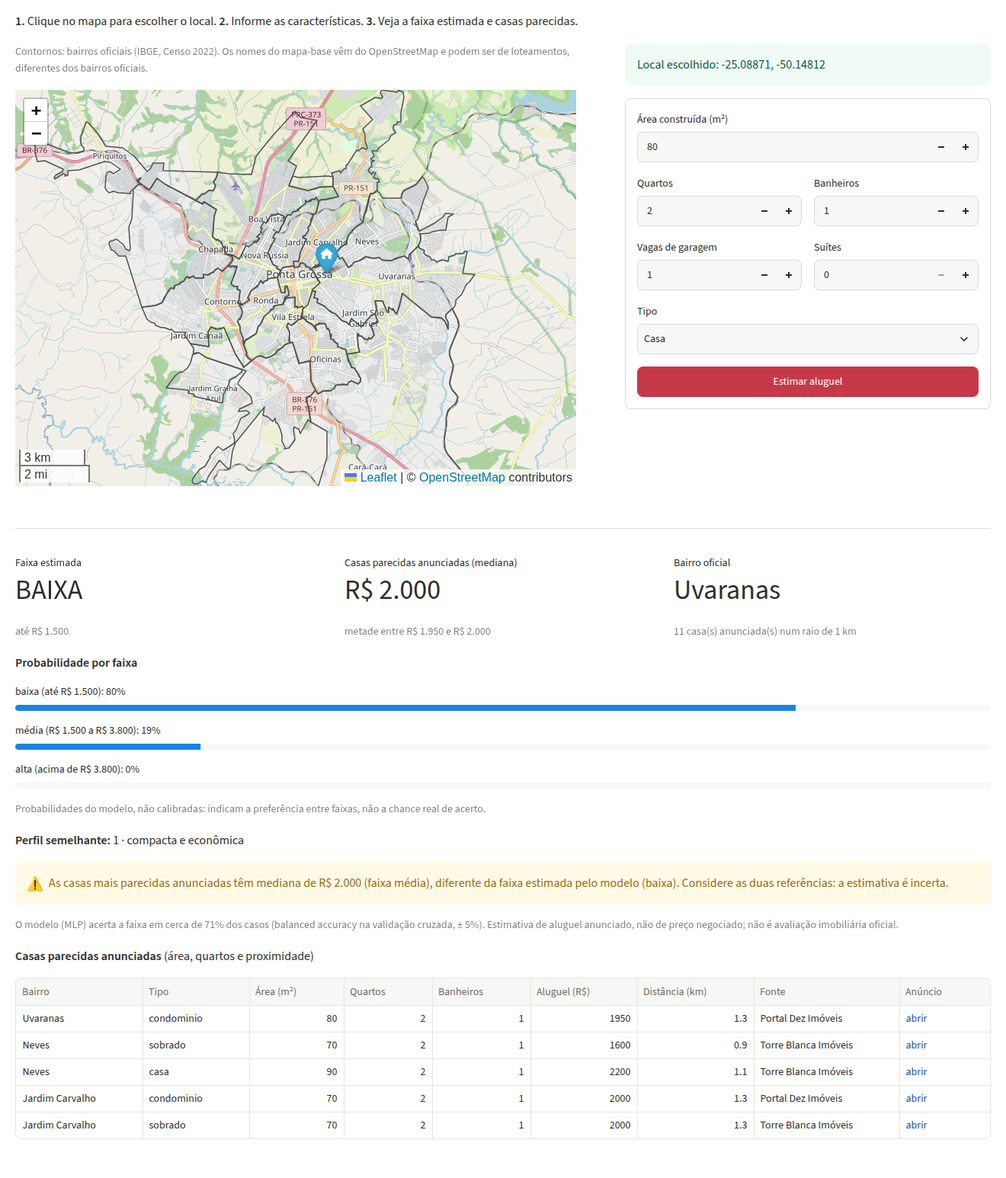
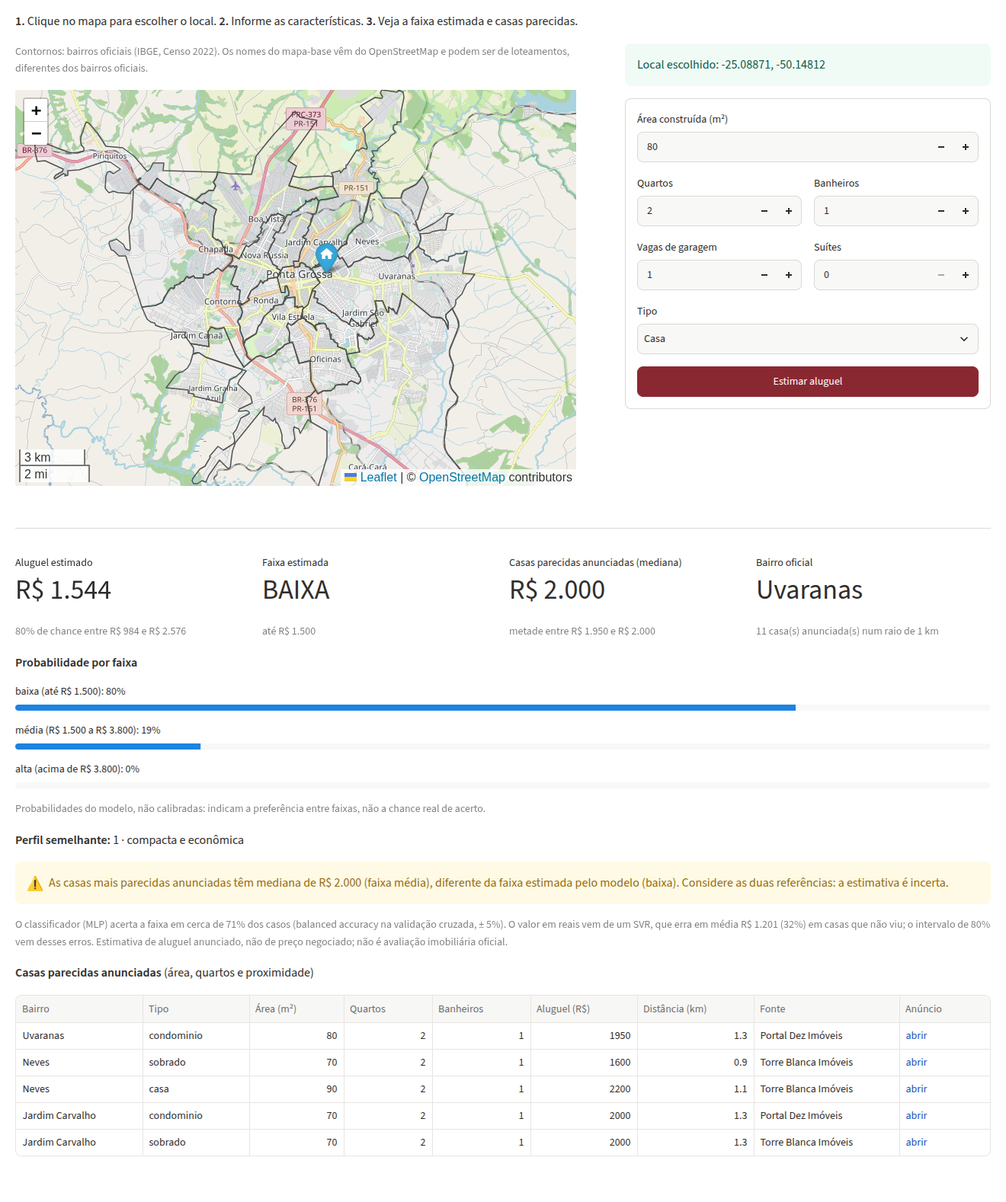
docs: document rent regression and estimated value in the app
Adds docs/regressao.md with method, stability across 10 seeds, the
held-out comparison, residuals by price band and neighborhood, and
limitations; updates the technical report (summary, section 8, system,
guiding questions, reproduction), app docs, data dictionary, decision
log and README, with the new regression figures.

diff --git a/docs/relatorio_tecnico.md b/docs/relatorio_tecnico.md
@@ -7,15 +7,18 @@
 
 ## Resumo
 Este trabalho constrói um sistema que coleta anúncios públicos de casas para alugar em Ponta Grossa (PR), trata
-e georreferencia os dados, analisa a distribuição espacial dos aluguéis e estima a **faixa de aluguel** de uma casa a
+e georreferencia os dados, analisa a distribuição espacial dos aluguéis e estima a **faixa** e o **valor do aluguel** de uma casa a
 partir do local e das características. Foram coletados 236 anúncios de quatro imobiliárias locais, dos quais
 208 casas residenciais formam a base dos modelos. Anúncios sem coordenadas foram geocodificados offline com o
 Cadastro Nacional de Endereços (CNEFE 2022, IBGE) e atribuídos aos 16 bairros oficiais da malha do Censo 2022.
 Na classificação em três faixas de aluguel, MLP e SVM tiveram o melhor desempenho (balanced accuracy média de
-0,66 e 0,65 no teste, em 10 partições), contra 0,54 de um baseline que usa só o bairro e 0,33 do acaso. O
+0,66 e 0,65 no teste, em 10 partições), contra 0,54 de um baseline que usa só o bairro e 0,33 do acaso. Na
+regressão do valor em reais, o SVR foi escolhido em todas as 10 partições e errou em média R$ 1.426 (31%), contra
+R$ 2.163 (65%) da mediana do bairro; seu intervalo de previsão de 80% cobriu 81% das casas do teste. O
 agrupamento revelou três perfis de casas (compactas, familiares e de alto padrão), que se distinguem mais pelo
 tamanho do que pelo preço por metro quadrado. O protótipo em Streamlit mostra o mapa do mercado com filtros e um
-simulador em que o usuário clica no mapa e recebe a faixa estimada, casas parecidas e avisos de confiabilidade.
+simulador em que o usuário clica no mapa e recebe o aluguel estimado com intervalo, a faixa, casas parecidas e
+avisos de confiabilidade.
 
 ---
 
@@ -235,9 +238,45 @@ e subtipo. Nada derivado do aluguel.
 
 Detalhes, grades de hiperparâmetros e limitações em [classificacao.md](classificacao.md).
 
-## 8. Módulo adicional
-A regressão do valor em reais não foi implementada; a apostila a trata como ampliação, conforme o nível da turma.
-Em seu lugar, foram feitos módulos que a apostila lista como funcionalidades adicionais:
+## 8. Regressão e módulos adicionais
+### 8.1 Regressão do valor em reais
+**Alvo:** o log do aluguel, por causa da forte assimetria (seção 19 da apostila). As previsões voltam para reais
+antes de qualquer métrica.
+
+**Protocolo:** os mesmos atributos, partições por imóvel, validação cruzada agrupada e 10 repetições da
+classificação. Seleção pelo menor MAE médio na CV.
+
+**Métricas:** MAE e MAPE (em reais e em porcentagem, fáceis de interpretar), RMSE e R².
+
+**Intervalo de 80%:** vem dos quantis dos resíduos fora da amostra no treino, e sua cobertura é verificada no teste.
+
+| Modelo (10 partições) | MAE na CV | MAE no teste (média ± dp) | MAPE no teste | R² no teste | Escolhido |
+|---|---|---|---|---|---|
+| **SVR** | **R$ 1.279** | **R$ 1.426 ± 458** | **31%** | **0,58** | **10×** |
+| Regressão linear (Ridge) | R$ 1.411 | R$ 1.672 ± 508 | 37% | 0,43 | 0× |
+| KNN | R$ 1.479 | R$ 1.713 ± 516 | 36% | 0,44 | 0× |
+| Árvore de decisão | R$ 1.502 | R$ 1.736 ± 384 | 42% | 0,42 | 0× |
+| Referência: mediana do bairro | R$ 2.014 | R$ 2.163 ± 422 | 65% | 0,23 | — |
+| MLP | R$ 8.716 | R$ 25.565 ± 35.636 | 156% | negativo | 0× |
+
+![Previsto × anunciado](figuras/regressao_previsto.png)
+
+**Resultados:**
+- O SVR superou a referência por bairro em todas as partições.
+- O intervalo de 80% cobriu em média 81% das casas do teste (de 65% a 96%). Ele é largo: a previsão × 0,64 a × 1,67.
+- O MLP é instável com o alvo em log: pequenas extrapolações viram valores absurdos em reais.
+
+**Resíduos:**
+- Há regressão à média: as casas da faixa baixa são superestimadas (+36%) e as da alta subestimadas (−27%), o que
+  indica atributos ausentes de padrão e acabamento.
+- Os maiores erros são casas atípicas, por exemplo 760 m² no Centro a R$ 22.000 com previsão de R$ 10.117.
+
+![Viés por faixa de preço](figuras/regressao_vies.png)
+
+Detalhes em [regressao.md](regressao.md).
+
+### 8.2 Módulos adicionais
+Funcionalidades que a apostila lista como adicionais:
 - **Anunciado × estimado:** cada casa é prevista por um modelo que não a viu (validação cruzada agrupada). 149 casas
   estão dentro do padrão, 31 anunciadas acima e 28 abaixo da faixa prevista. Isso **não indica erro nem fraude**:
   são candidatas a imóvel especial, anúncio incorreto ou oportunidade (seção 9.4 da apostila).
@@ -256,7 +295,9 @@ Em seu lugar, foram feitos módulos que a apostila lista como funcionalidades ad
 | `analyze` | Qualidade e EDA |
 | `cluster` | Agrupamento |
 | `classify` | Classificação |
-| `build-app` | Treina o modelo final, fora da interface |
+| `regress` | Regressão do valor |
+| `export-base` | Base processada pública |
+| `build-app` | Treina os modelos finais, fora da interface |
 | `app` | Abre o Streamlit |
 
 O app não treina nada durante a navegação; ele lê artefatos gerados antes (modelo, anúncios sem endereço,
@@ -273,10 +314,12 @@ bairros e metadados). Bibliotecas: pandas, numpy, scikit-learn, geopandas, foliu
 
 **Simulador:**
 - o usuário clica no mapa, informa área, quartos, banheiros, vagas, suítes e tipo;
-- o app devolve a faixa estimada em reais, a probabilidade de cada faixa, o bairro oficial, o perfil semelhante
-  e as casas parecidas;
-- há avisos para ponto fora da cidade, baixa cobertura, extrapolação e **discordância entre o modelo e os
-  comparáveis**.
+- o app devolve o **aluguel estimado com intervalo de 80%** (SVR), a faixa e a probabilidade de cada faixa
+  (MLP), o bairro oficial, o perfil semelhante e as casas parecidas;
+- o valor só é exibido porque o modelo erra menos que a mediana do bairro (R$ 1.201 contra R$ 2.039, fora da
+  amostra);
+- há avisos para ponto fora da cidade, baixa cobertura, extrapolação e **discordância entre os modelos ou com os
+  comparáveis**. Uma diferença de até 10% na divisa entre faixas não gera aviso.
 
 O teste no navegador revelou um erro de codificação, depois corrigido: o usuário informar "0 suítes" gerava
 uma entrada que o modelo nunca viu no treino, onde a ausência do campo representa "sem suíte".
@@ -309,8 +352,8 @@ perfis de casas são estáveis e interpretáveis.
 
 **Trabalhos futuros:**
 - ampliar as fontes (Kikina, Conceito) e repetir a coleta em várias datas, para análise temporal;
-- calibrar as probabilidades do classificador;
-- implementar a regressão do valor;
+- calibrar as probabilidades do classificador e ajustar o intervalo da regressão por faixa de preço;
+- coletar atributos de padrão e acabamento, que faltam para reduzir o viés da regressão nos extremos;
 - verificar manualmente os anúncios fora do padrão.
 
 ### Respostas às perguntas orientadoras (seção 21 da apostila)
@@ -320,7 +363,7 @@ perfis de casas são estáveis e interpretáveis.
 | O preço por m² varia de forma consistente entre os bairros? | Em parte. As medianas diferem, mas a dispersão dentro dos bairros é alta, e há polos distintos no mesmo bairro (Cara Cara: 22,50 e 27,90). |
 | Os grupos correspondem às divisões oficiais? | Os perfis de casa não (ARI 0,04). As concentrações espaciais ficam dentro dos bairros quando o raio é pequeno, mas não os descrevem por inteiro. |
 | Que atributos diferenciam regiões caras das acessíveis? | Tamanho, banheiros e suítes: o alto padrão é a maior fatia no Centro (60%) e na Estrela (50%); Neves, Boa Vista e Chapada têm mais de 80% de casas compactas. |
-| Os modelos erram mais para baratos, intermediários ou alto padrão? | Para os intermediários (recall 0,39 na partição principal). |
+| Os modelos erram mais para baratos, intermediários ou alto padrão? | Na classificação, para os intermediários (recall 0,39 na partição principal). Na regressão, o erro em reais cresce com o preço (R$ 297 na faixa baixa, R$ 3.509 na alta) e há viés de regressão à média: +36% nas baratas, −27% nas caras. |
 | Há diferença entre fatores do aluguel e da venda? | Fora do escopo: a base é só de locação. |
 | Quais regiões têm resultados pouco confiáveis? | Nova Rússia e Vila Ildemira (menos de 5 casas), Olarias e Colônia Dona Luíza (5 e 6 casas), e anúncios com localização aproximada. |
 | Os anômalos são erros, imóveis especiais ou oportunidades? | 59 casas fogem da faixa prevista; distinguir os casos exige verificar cada anúncio, e o app as lista com link. |
@@ -346,9 +389,10 @@ python -m imoveis_pg merge data/*_2026-11-09.csv --output data/base_2026-11-09.c
 python -m imoveis_pg analyze data/base_2026-11-09.csv --output reports/base-2026-11-09 --bairros data/raw/ibge/PR_bairros_CD2022.gpkg
 python -m imoveis_pg cluster data/base_2026-11-09.csv --output reports/agrupamento-2026-11-09
 python -m imoveis_pg classify data/base_2026-11-09.csv --output reports/classificacao-3faixas-2026-11-09 --repeticoes 10
+python -m imoveis_pg regress data/base_2026-11-09.csv --output reports/regressao-2026-11-09 --repeticoes 10
 python -m imoveis_pg build-app data/base_2026-11-09.csv --output data/app/2026-11-09
 python -m imoveis_pg app --artefatos data/app/2026-11-09
-python -m pytest -q   # 102 testes
+python -m pytest -q   # 116 testes
 ```
 A base processada pública está em `data/processado/base_2026-11-09.csv` (sem endereço; coordenadas arredondadas a ~100 m).
 Uma nova coleta gera dados de outra data. Para reproduzir exatamente estes resultados, use o cache de páginas
@@ -357,4 +401,4 @@ no `manifest.json`.
 
 ## Apêndice B. Documentos de apoio
 [coleta.md](coleta.md) · [dados.md](dados.md) · [dicionario.md](dicionario.md) · [classificacao.md](classificacao.md)
-· [agrupamento.md](agrupamento.md) · [app.md](app.md) · [gestao.md](gestao.md)
+· [regressao.md](regressao.md) · [agrupamento.md](agrupamento.md) · [app.md](app.md) · [gestao.md](gestao.md)

diff --git a/docs/regressao.md b/docs/regressao.md
@@ -1,0 +1,136 @@
+# Regressão do aluguel em reais
+
+## Pergunta
+Qual o aluguel mensal anunciado provável de uma casa, em reais, dadas as características e a localização?
+O fluxo final do AGENTS.md pede que o software retorne "o valor estimado"; a apostila trata a regressão como
+obrigatória ou ampliação, conforme a turma (seção 9.3). Ela complementa a [classificação por faixas](classificacao.md).
+
+## Executar
+```bash
+python -m imoveis_pg regress data/base_2026-11-09.csv --output reports/regressao-2026-11-09 --repeticoes 10
+```
+Opções: `--seed` (padrão 42), `--repeticoes` (repete o experimento inteiro com as sementes 0..N−1; cerca de
+1 min cada) e `--bairros`.
+
+Saídas:
+- `metricas.csv`;
+- `erros_teste.csv`, `erros_por_bairro.csv` e `erros_por_faixa.csv`;
+- `comparacao_modelos.png`, `previsto_x_anunciado.png` e `vies_por_faixa.png`;
+- `estabilidade.{csv,png}` e `estabilidade_execucoes.csv`;
+- `modelo_selecionado.joblib`;
+- `manifest.json`.
+
+## Método
+Mesmo protocolo sem vazamento da classificação:
+- **Partição:** 208 casas, mesmos atributos (nada derivado do aluguel), teste reservado de 20% separado por grupo de
+  imóvel e `GridSearchCV` com `GroupKFold` de 5 dobras só no treino.
+- **Alvo:** `log(aluguel)`. Os aluguéis são muito assimétricos (média R$ 3.792; mediana R$ 2.050), e o log evita
+  que poucas casas de luxo dominem o ajuste, como recomenda a seção 19 da apostila. As previsões voltam para reais
+  (`TransformedTargetRegressor`) antes de qualquer métrica.
+- **Métricas, todas em reais:**
+  - **MAE** (erro absoluto médio): principal, porque é em reais e fácil de explicar;
+  - **MAPE** (erro percentual médio): compara casas baratas e caras na mesma escala;
+  - **RMSE**: pune erros grandes;
+  - **R²**;
+  - erro mediano.
+- **Seleção:** menor MAE médio na validação cruzada, nunca pelo teste.
+- **Intervalo de previsão de 80%:**
+  - calculado com os quantis 10% e 90% dos resíduos `log(real/previsto)` de previsões fora da amostra no treino;
+  - aplicado como multiplicadores sobre a previsão;
+  - **cobertura verificada no teste reservado**, como exigia a [proposta inicial](proposta-inicial.md) antes de
+    exibir intervalos.
+
+| Modelo | Hiperparâmetros testados |
+|---|---|
+| Referência: mediana do bairro | — (aluguel mediano do bairro no treino) |
+| Regressão linear (Ridge) | `alpha` ∈ {0,1; 1; 10} |
+| Árvore de decisão | `max_depth` ∈ {3, 5, 8, ∞}; `min_samples_leaf` ∈ {1, 3, 5, 10} |
+| KNN | `n_neighbors` ∈ {3, 5, 7, 11, 15}; `weights` ∈ {uniform, distance} |
+| SVR (RBF) | `C` ∈ {0,1; 1; 10; 100}; `gamma` ∈ {scale; 0,01; 0,1}; `epsilon` ∈ {0,05; 0,1} |
+| MLP | camadas ∈ {(16), (32), (32, 16)}; `alpha` ∈ {0,0001; 0,01; 1} |
+
+## Resultados (base de 2026-11-09)
+### Estabilidade em 10 partições (sementes 0 a 9)
+| Modelo | MAE na CV | MAE no teste: média ± dp | MAPE no teste | R² no teste | Escolhido |
+|---|---|---|---|---|---|
+| **SVR** | **R$ 1.279** | **R$ 1.426 ± 458** | **31%** | **0,58** | **10×** |
+| Regressão linear | R$ 1.411 | R$ 1.672 ± 508 | 37% | 0,43 | 0× |
+| KNN | R$ 1.479 | R$ 1.713 ± 516 | 36% | 0,44 | 0× |
+| Árvore de decisão | R$ 1.502 | R$ 1.736 ± 384 | 42% | 0,42 | 0× |
+| Referência: mediana do bairro | R$ 2.014 | R$ 2.163 ± 422 | 65% | 0,23 | — |
+| MLP | R$ 8.716 | R$ 25.565 ± 35.636 | 156% | −2.947 | 0× |
+
+![Estabilidade entre partições](figuras/regressao_estabilidade.png)
+
+- **O SVR é a escolha clara:** foi escolhido pela validação cruzada em todas as 10 partições e superou a referência
+  por bairro no teste em todas elas. O erro percentual cai de 65% (só o bairro) para 31%.
+- **O intervalo de 80% está calibrado em média:** cobriu 81% das casas do teste, variando de 65% a 96% entre
+  partições por causa do teste pequeno. É largo, porém: a previsão × 0,64 a × 1,67 no modelo do app. Para uma
+  previsão de R$ 2.000, isso vai de cerca de R$ 1.280 a R$ 3.340.
+- **O MLP é instável:** com o alvo em log, pequenas extrapolações viram valores absurdos quando voltam para reais
+  (num teste, MAE de R$ 21.614). Registramos o resultado em vez de esconder o modelo; ele não deve ser usado.
+
+### Partição principal (semente 42; 42 casas no teste)
+
+![Comparação dos regressores](figuras/regressao_comparacao.png)
+
+| Modelo | MAE na CV (± dp) | MAPE na CV | R² na CV | MAE no teste | RMSE no teste | MAPE no teste | R² no teste |
+|---|---|---|---|---|---|---|---|
+| Referência: mediana do bairro | R$ 1.881 ± 433 | 63% | 0,20 | R$ 2.254 | R$ 4.108 | 57% | 0,30 |
+| Regressão linear | R$ 1.337 ± 314 | 37% | 0,51 | R$ 1.621 | R$ 3.277 | 30% | 0,55 |
+| Árvore de decisão | R$ 1.558 ± 387 | 45% | 0,45 | R$ 1.649 | R$ 3.158 | 37% | 0,59 |
+| KNN | R$ 1.387 ± 569 | 35% | 0,52 | R$ 1.817 | R$ 3.359 | 34% | 0,53 |
+| **SVR** | **R$ 1.287 ± 433** | **34%** | **0,56** | **R$ 1.483** | **R$ 2.971** | **28%** | **0,63** |
+| MLP | R$ 2.519 ± 755 | 58% | −1,27 | R$ 21.614 | R$ 129.270 | 130% | −693 |
+
+Hiperparâmetros do SVR: `C = 10`, `gamma = 0,01`, `epsilon = 0,05`. O intervalo cobriu 35 das 42 casas (83%).
+
+![Previsto × anunciado](figuras/regressao_previsto.png)
+
+### Resíduos por faixa de preço e por região
+Faixas pelos tercis do treino (baixa ≤ R$ 1.450; média até R$ 3.800; alta acima):
+
+| Faixa real | n | MAE | MAPE | Viés mediano |
+|---|---|---|---|---|
+| baixa | 10 | R$ 297 | 32% | **+36%** (superestima) |
+| média | 18 | R$ 566 | 23% | −8% |
+| alta | 14 | R$ 3.509 | 30% | **−27%** (subestima) |
+
+![Viés por faixa](figuras/regressao_vies.png)
+
+- **Regressão à média:** o modelo puxa as casas baratas para cima e as caras para baixo. Em reais, o erro cresce com o preço
+  (R$ 297 na faixa baixa, R$ 3.509 na alta); em porcentagem, a faixa média é a mais bem estimada (23%).
+- **As maiores surpresas são casas especiais:**
+  - Boa Vista, 60 m², anunciada a R$ 700 e prevista em R$ 1.342 (+92%);
+  - Cara Cara, 230 m², R$ 2.500 contra R$ 4.545 previstos (+82%);
+  - Jardim Carvalho, sem área informada, R$ 12.000 contra R$ 3.492 (−71%);
+  - Centro, 760 m², R$ 22.000 contra R$ 10.117 (−54%).
+  São candidatas a anúncio incorreto, imóvel atípico ou atributo ausente, como prevê a seção 9.4 da apostila.
+- **Por bairro:** no teste da semente 42, entre os bairros com 2 ou mais casas, Contorno (9%) e Olarias (12%) foram
+  os mais bem estimados e Boa Vista (59%) e Centro (53%) os piores. Com 1 a 8 casas por bairro no teste, essas
+  diferenças são indicativas, não conclusivas (`erros_por_bairro.csv`).
+
+## No app
+O `build-app` reajusta o SVR nas 208 casas (hiperparâmetros por `GroupKFold`) e mede, com previsões fora da
+amostra nas mesmas dobras, o erro do modelo e o da referência por bairro:
+
+| | MAE | MAPE | R² |
+|---|---|---|---|
+| SVR | R$ 1.201 | 32% | 0,67 |
+| Mediana do bairro | R$ 2.039 | 64% | 0,21 |
+
+Como o modelo supera a referência, **o simulador mostra o aluguel estimado com o intervalo de 80%** ao lado da
+faixa do classificador e das casas parecidas. Se um dia o modelo não superar a referência, o valor fica oculto.
+
+O app avisa quando o valor cai **mais de 10% fora** da faixa prevista pelo classificador. Perto da divisa entre
+faixas a diferença é ruído: um valor de R$ 1.544 com a faixa "baixa" (até R$ 1.500) não gera aviso. Os popups do mapa
+mostram o aluguel estimado fora da amostra de cada casa anunciada.
+
+## Limitações
+- MAPE de cerca de 31% e intervalos largos: com 208 casas e atributos incompletos, a estimativa serve como ordem de
+  grandeza, não como avaliação.
+- A cobertura do intervalo oscila entre partições (65% a 96%), e o intervalo é o mesmo multiplicador para casas
+  baratas e caras, embora o erro relativo dependa da faixa.
+- O viés por faixa (+36% nas baratas, −27% nas caras) indica que faltam atributos que distinguem padrão de
+  acabamento, estado de conservação e lazer (piscina, área gourmet), que as fontes informam de forma irregular.
+- Aluguel anunciado, não negociado; quatro imobiliárias numa única data.

diff --git a/docs/app.md b/docs/app.md
@@ -13,9 +13,9 @@ Nenhum modelo é treinado durante a navegação: tudo vem dos artefatos.
 ## Artefatos (`build-app`)
 | Arquivo | Conteúdo |
 |---|---|
-| `anuncios.csv` | anúncios com coordenadas, **sem endereço**: bairro oficial, atributos, aluguel, R$/m², precisão da localização, faixa anunciada, faixa estimada fora da amostra, comparação e perfil |
+| `anuncios.csv` | anúncios com coordenadas, **sem endereço**: bairro oficial, atributos, aluguel, R$/m², precisão da localização, faixa anunciada, faixa estimada e aluguel estimado fora da amostra, comparação e perfil |
 | `bairros.geojson` | os 16 bairros oficiais (IBGE, Censo 2022) |
-| `modelos.joblib` | classificador final e modelo de perfis (escalonador + K-means) |
+| `modelos.joblib` | classificador final (MLP), regressor final (SVR) e modelo de perfis (escalonador + K-means) |
 | `metadados.json` | data e fontes da base, hiperparâmetros, métricas de validação cruzada, limites das faixas e dos atributos, avisos |
 
 **Classificador final:** MLP, o modelo escolhido pela validação cruzada em 7 de 10 partições
@@ -23,6 +23,12 @@ Nenhum modelo é treinado durante a navegação: tudo vem dos artefatos.
 `GridSearchCV` com `GroupKFold` (5 dobras, agrupado por imóvel). Na base de 2026-11-09: `alpha = 0,01`,
 camadas (32, 16) e balanced accuracy de 0,712 ± 0,053 na validação cruzada. As faixas são os tercis da base
 inteira: baixa até R$ 1.500, média até R$ 3.800 e alta acima disso.
+
+**Regressor final:** SVR, escolhido pela validação cruzada nas 10 partições ([regressao.md](regressao.md)),
+reajustado nas 208 casas com o alvo em log (`C = 10`, `gamma = 0,01`, `epsilon = 0,05`). Fora da amostra, nas
+mesmas dobras, erra em média R$ 1.201 (32%), contra R$ 2.039 (64%) da mediana do bairro. Por isso
+`metadados.json` registra `mostrar_valor = true`; se o modelo não superasse a referência, o valor ficaria oculto.
+O intervalo de 80% multiplica a previsão por 0,64 e 1,67 (quantis dos resíduos fora da amostra).
 
 **Anunciado × estimado:** cada casa é prevista por um modelo que não a viu (mesmas dobras e hiperparâmetros).
 Na base atual: 149 dentro do padrão, 31 anunciadas acima e 28 abaixo do previsto.
@@ -37,8 +43,11 @@ Na base atual: 149 dentro do padrão, 31 anunciadas acima e 28 abaixo do previst
    - Tabela por bairro e exportação dos anúncios filtrados em CSV.
 2. **Simulador**
    - O usuário clica no mapa (contornos dos bairros oficiais) e informa área, quartos, banheiros, vagas, suítes e tipo.
-   - Resultado: faixa estimada com intervalo em reais, probabilidade por faixa, mediana das 5 casas anunciadas mais
-     parecidas, bairro oficial, número de casas num raio de 1 km, perfil semelhante e tabela de comparáveis com links.
+   - Resultado:
+     - **aluguel estimado com intervalo de 80%** e faixa estimada (com intervalo em reais e probabilidade por faixa);
+     - mediana das 5 casas anunciadas mais parecidas e tabela desses comparáveis, com links;
+     - bairro oficial, número de casas num raio de 1 km e perfil semelhante.
+   - Popups do mapa mostram também o aluguel estimado fora da amostra de cada anúncio.
 3. **Qualidade dos dados**
    - Anúncios por imobiliária, precisão da localização, atributos ausentes e bairros com poucos dados.
    - Lista dos anúncios acima ou abaixo do padrão.

diff --git a/docs/gestao.md b/docs/gestao.md
@@ -23,6 +23,7 @@ Datas dos commits; a coluna "Encontros" relaciona cada entrega ao planejamento d
 | 2026-11-09 | Agrupamento: K-means, Ward e DBSCAN (perfis) e DBSCAN geográfico | 8–9 | `docs/agrupamento.md` |
 | 2026-11-09 | Protótipo Streamlit: mapa, filtros, simulador, qualidade dos dados | 14 | `docs/app.md` |
 | 2026-11-16 | Filtros reorganizados, dicionário de dados e este registro de gestão | 15 | `docs/dicionario.md` |
+| 2026-11-16 | Regressão do valor em reais e valor estimado no simulador | 13 | `docs/regressao.md` |
 
 ## Registro de decisões
 | Data | Decisão | Motivo | Alternativa descartada |
@@ -43,6 +44,10 @@ Datas dos commits; a coluna "Encontros" relaciona cada entrega ao planejamento d
 | 2026-11-09 | Suítes = 0 e vagas = 0 tratadas como ausentes no simulador | Reproduz a codificação do treino; no mesmo ponto, o zero cru dava média com 100% e a codificação correta, baixa com 80% | — |
 | 2026-11-16 | Filtros dentro da aba do mapa, e não numa barra lateral | Na barra lateral, apareciam também no simulador, que não os usa | Fixar os filtros no código (descartado: é requisito mínimo da apostila) |
 | 2026-11-16 | Gestão registrada no repositório em vez do Linear | Um só lugar para planejamento, decisões e evidências | Manter o Linear atualizado à mão |
+| 2026-11-16 | Fazer a regressão mesmo sem confirmação do professor | O AGENTS.md pede "valor estimado"; cobre a regressão obrigatória ou opcional | Só a faixa |
+| 2026-11-16 | Alvo em log e métricas em reais; SVR no app | Assimetria forte; o SVR foi escolhido nas 10 partições e superou a mediana do bairro em todas | MLP (instável com alvo em log) |
+| 2026-11-16 | Intervalo de 80% pelos resíduos fora da amostra, com cobertura verificada no teste | A proposta inicial só permitia intervalo depois de verificar a cobertura (81% em média) | Intervalo fixo arbitrário |
+| 2026-11-16 | Discordância entre valor e faixa só avisada além de 10% da divisa | Na divisa (ex.: R$ 1.544 com limite de R$ 1.500) o aviso era ruído | Avisar qualquer diferença de faixa |
 
 ## Riscos (seção 19 da apostila) e como foram tratados
 | Risco | Situação |
@@ -64,5 +69,6 @@ aplicação e documentação.
 - [x] ~~Apresentação por slides~~: cancelada (informado em 2026-11-16)
 - [x] Base processada pública versionada em `data/processado/` (sem endereço, CEP ou dados pessoais; coordenadas a ~100 m)
 - [ ] Decidir se o PDF da apostila deve ser versionado
-- [ ] Confirmar com o professor: regressão obrigatória ou opcional; quantidade mínima de anúncios
+- [x] Regressão do valor em reais: [regressao.md](regressao.md) (feita sem confirmação do professor, para cobrir os dois casos)
+- [ ] Confirmar com o professor a quantidade mínima de anúncios
 - [ ] Opcional: coletores da Kikina e da Conceito para reduzir a incerteza das métricas

diff --git a/README.md b/README.md
@@ -2,8 +2,9 @@
 
 Importação rastreável de CSV, relatório de qualidade, análise exploratória e
 coleta automatizada de anúncios públicos de imobiliárias de Ponta Grossa.
-Inclui a comparação de classificadores por faixa de aluguel, o agrupamento de
-perfis e regiões e um app com mapa, filtros e simulador de aluguel.
+Inclui a comparação de classificadores por faixa de aluguel, a regressão do valor
+em reais, o agrupamento de perfis e regiões e um app com mapa, filtros e simulador
+de aluguel.
 
 ## Executar
 Python 3.12 ou superior. Na raiz deste repositório:
@@ -44,8 +45,15 @@ Os dados coletados ficam em data/ e não são versionados.
 python -m imoveis_pg build-app data/base_2026-11-09.csv --output data/app/2026-11-09
 python -m imoveis_pg app --artefatos data/app/2026-11-09   # http://localhost:8501
 ```
-Clique no mapa, informe as características da casa e veja a faixa de aluguel estimada,
+Clique no mapa, informe as características da casa e veja o aluguel estimado (com intervalo), a faixa,
 as casas parecidas anunciadas e os avisos de confiabilidade. Detalhes em [docs/app.md](docs/app.md).
+
+## Estimar o valor do aluguel (regressão)
+```bash
+python -m imoveis_pg regress data/base_2026-11-09.csv --output reports/regressao-2026-11-09 --repeticoes 10
+```
+Compara a mediana do bairro, regressão linear, árvore, KNN, SVR e MLP no valor em reais (MAE, MAPE, RMSE e R²),
+com intervalo de previsão de 80% e análise de resíduos. Detalhes em [docs/regressao.md](docs/regressao.md).
 
 ## Classificar faixas de aluguel
 ```bash

diff --git a/docs/dicionario.md b/docs/dicionario.md
@@ -106,6 +106,7 @@ Na classificação, a imputação (mediana + indicador), a padronização e o on
 | `faixa_anunciada` | Faixa do aluguel anunciado (baixa ≤ R$ 1.500; média até R$ 3.800; alta acima) |
 | `faixa_estimada` | Faixa prevista por um modelo que não viu o anúncio (validação cruzada agrupada) |
 | `comparacao` | `dentro do padrão`, `acima do padrão` (anunciado acima do previsto) ou `abaixo do padrão` |
+| `aluguel_estimado` | Aluguel previsto pelo SVR por um modelo que não viu o anúncio (validação cruzada agrupada), em R$ |
 | `perfil` | Perfil do K-means: `1 · compacta e econômica`, `2 · familiar intermediária` ou `3 · ampla de alto padrão` |
 
 ## 6. Base processada pública (`export-base`)
